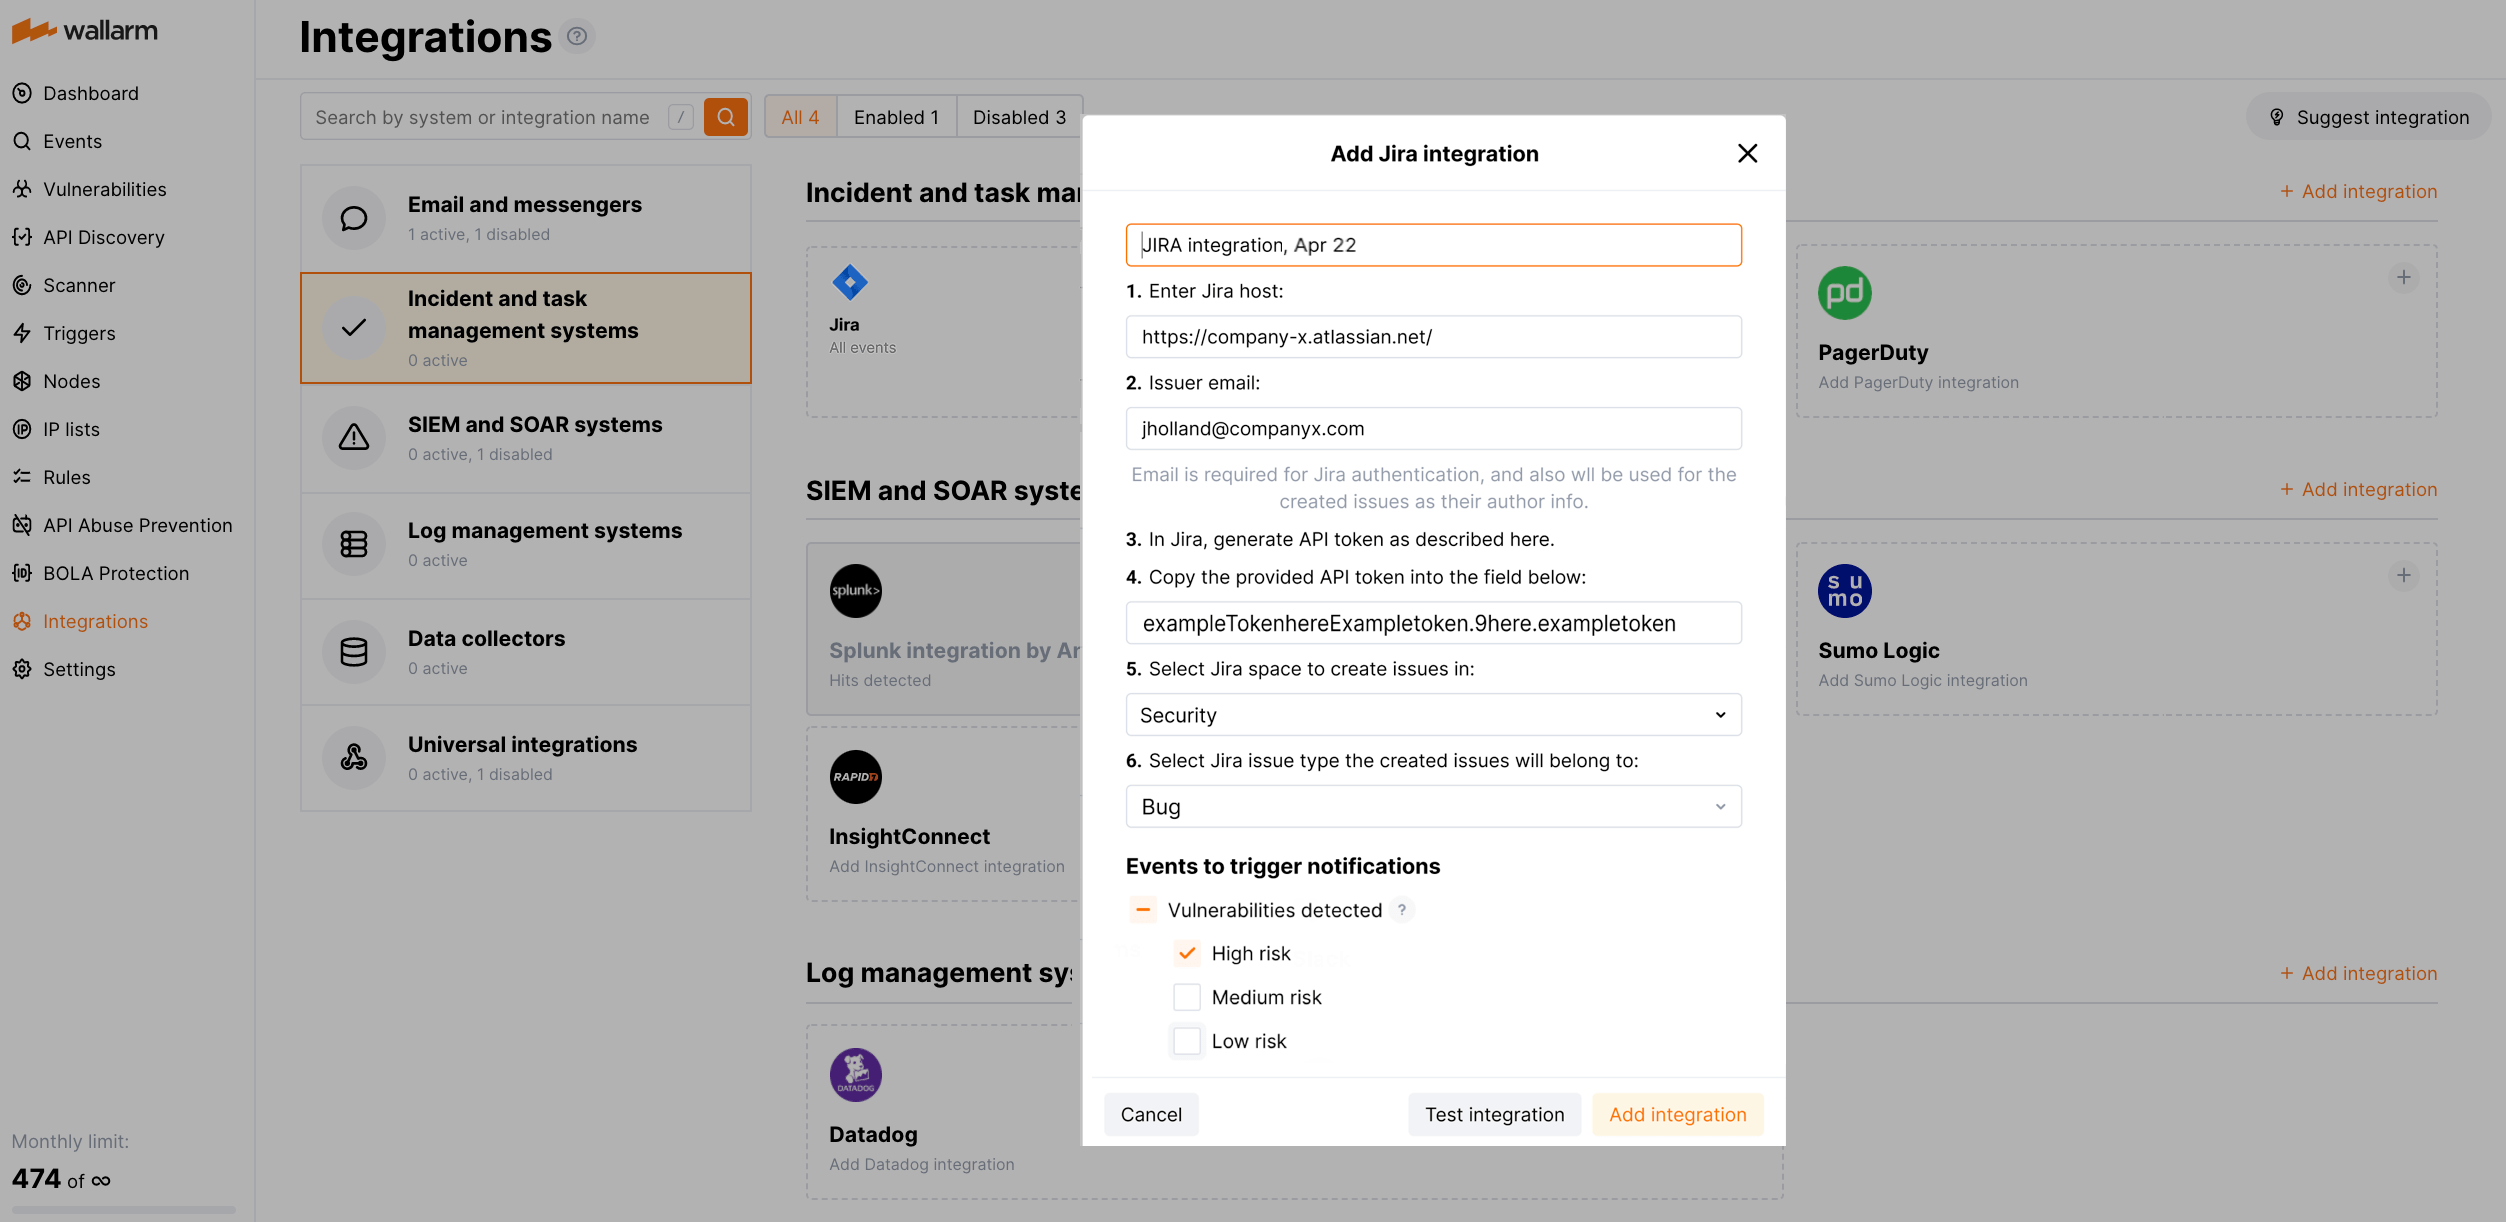
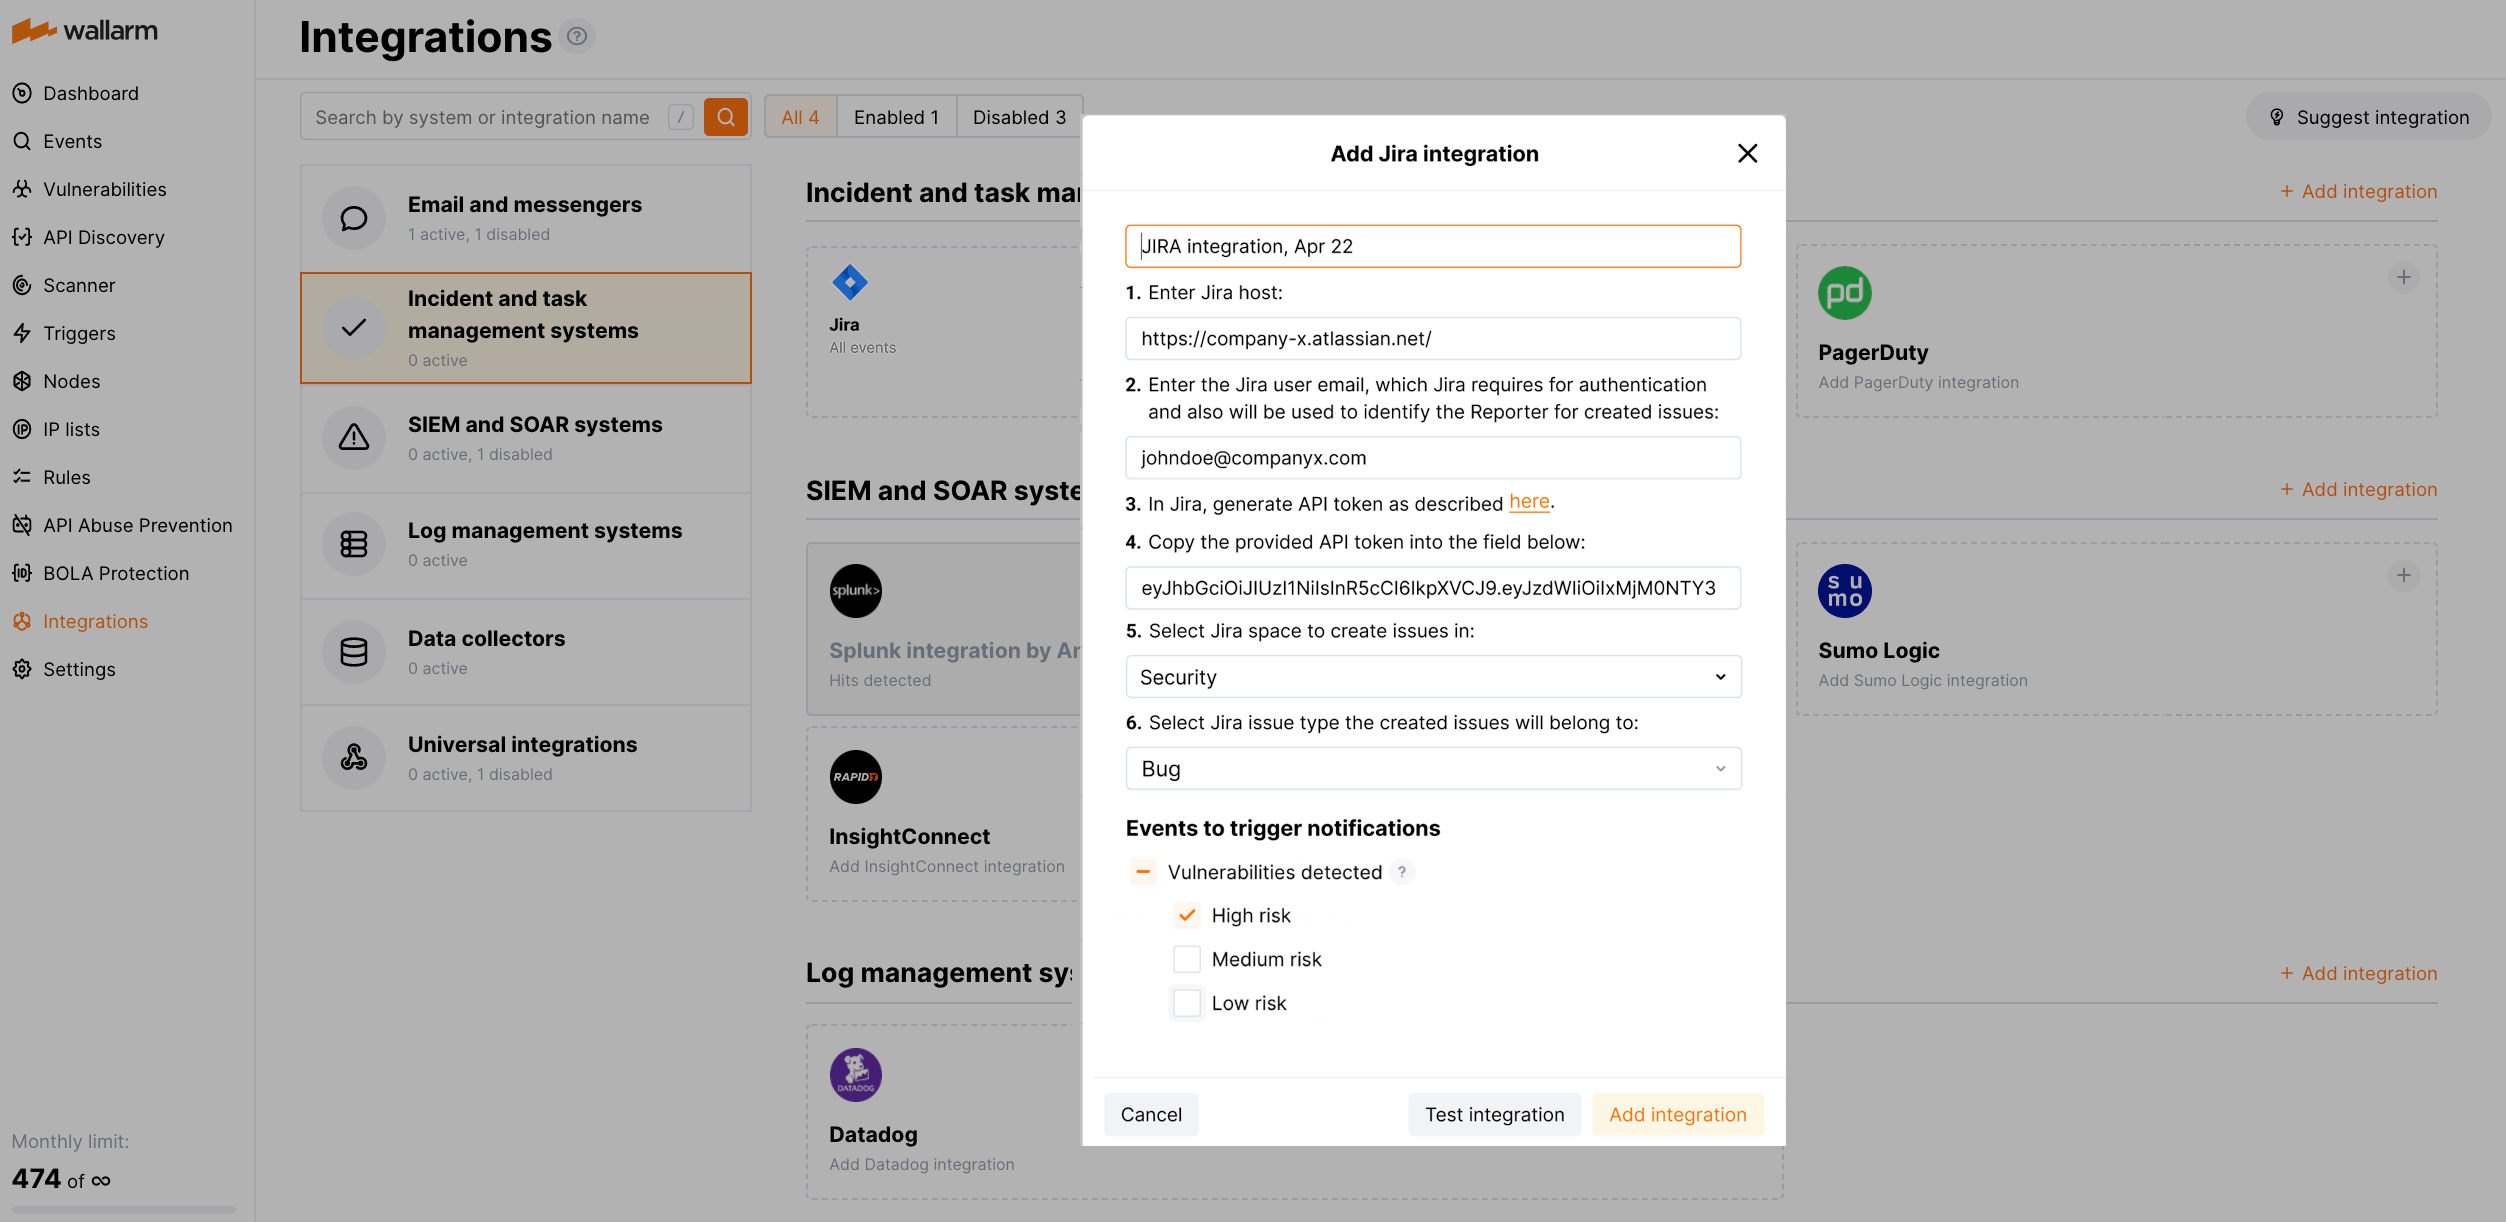
DOCS-2027 Fixes due to comments (2)

Changed region(s): [[0.4358, 0.1866, 0.6848, 0.8707]]

diff --git a/docs/latest/user-guides/settings/integrations/jira.md b/docs/latest/user-guides/settings/integrations/jira.md
@@ -19,9 +19,9 @@ In Wallarm UI:
 1. Enter an integration name.
 1. Enter Jira host (e.g., `https://company-x.atlassian.net/`).
 1. Enter the Jira user email, which Jira requires for authentication and also will be used to identify the Reporter for created issues.
-1. Paste the generated API token. The email and token will be checked to authenticate Wallarm in Jira available at the specified host.
-1. Select Jira space to create issues in. Available only on successful authentication.
-1. Select Jira issue type the created issues will belong to. Available only after selecting the space.
+1. Paste the generated API token. The email and token will be checked to authenticate Wallarm at the specified Jira host. On success, spaces available to this Jira user will be listed.
+1. Select Jira space to create issues in. When selected, list of issue types supported in this space will be listed.
+1. Select Jira issue type the created issues will belong to.
 1. Select event types to trigger notifications. All vulnerabilities or only of the specific risk level(s) may be selected. If nothing is selected, Jira issues will not be created.
 1. [Test the integration](#testing-integration) and make sure the settings are correct.
 1. Click **Add integration**.
